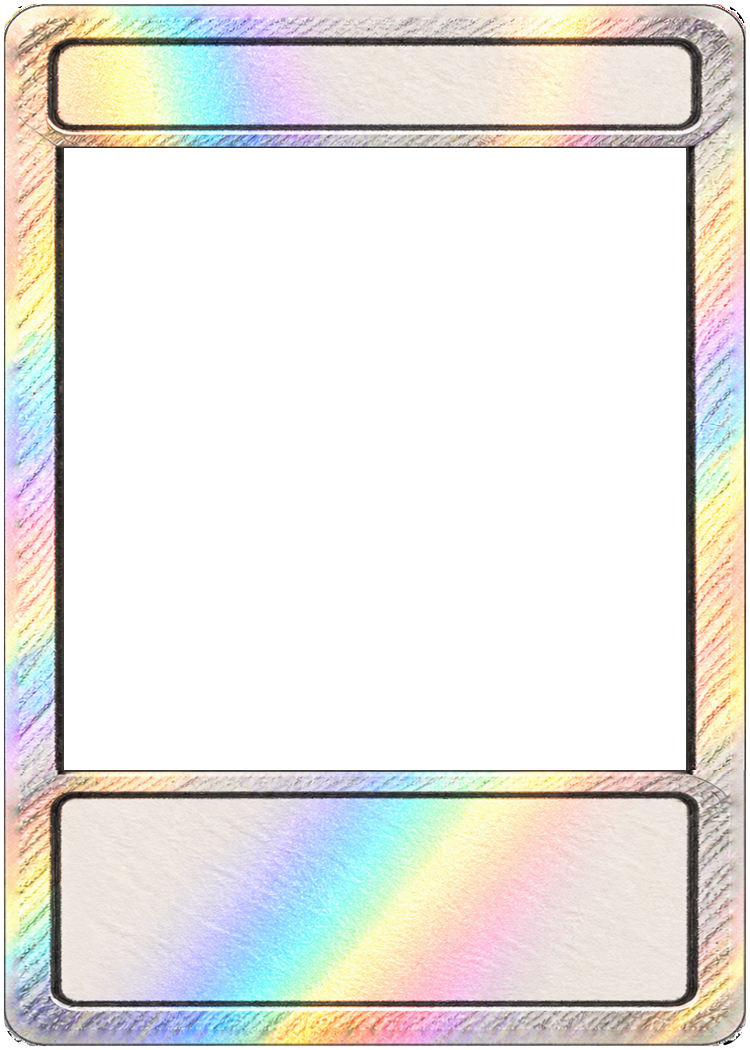
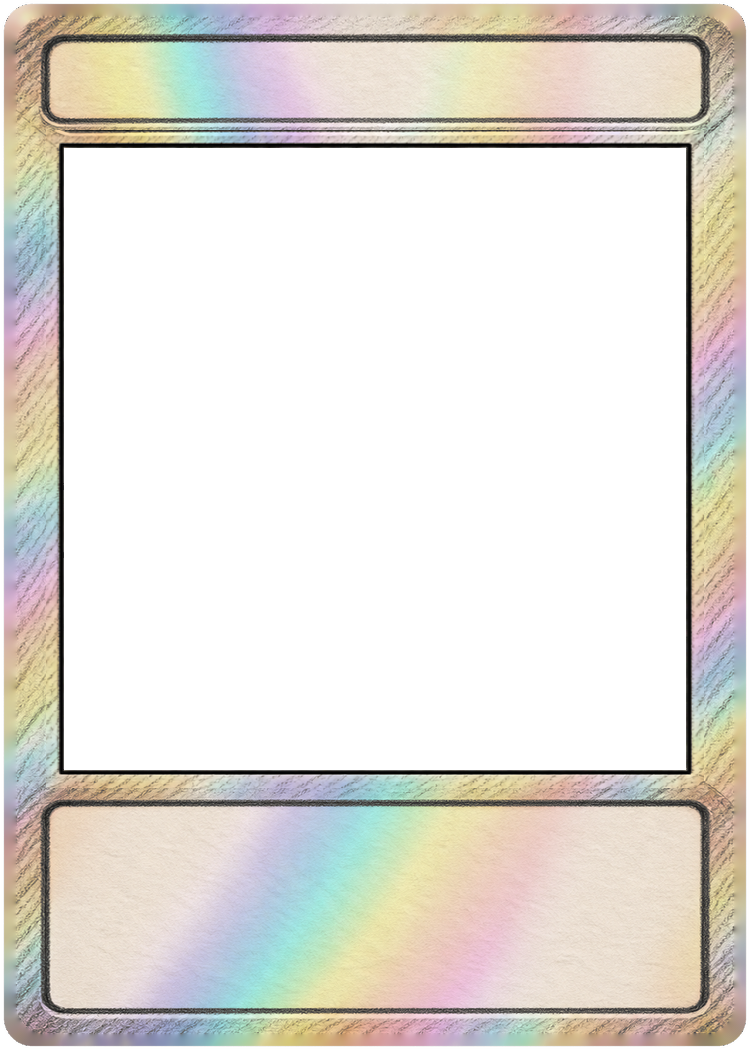
Frames: Fire holo and Paper holo remade on their normal frames (panels line up exactly)
Claude-Session: https://claude.ai/code/session_01LEzX9WUx8sWcSwwRyLeaEz

diff --git a/studio/src/frames.ts b/studio/src/frames.ts
@@ -89,7 +89,7 @@ export const BUILTIN_FRAMES: Record<string, Partial<Record<Variant, string>>> = 
 
 /** Bump (to a time in the past, e.g. when the change is made) when a frame file is added or changed: approvals made
  *  before this go stale and must be redone. */
-export const FRAMES_UPDATED_AT = Date.UTC(2026, 9, 12, 18, 0)
+export const FRAMES_UPDATED_AT = Date.UTC(2026, 9, 12, 20, 0)
 
 /** From the templates' layout.json (750 x 1050), doubled to 1500 x 2100. Identical on every frame. */
 export const FRAME_GEOMETRY = {
